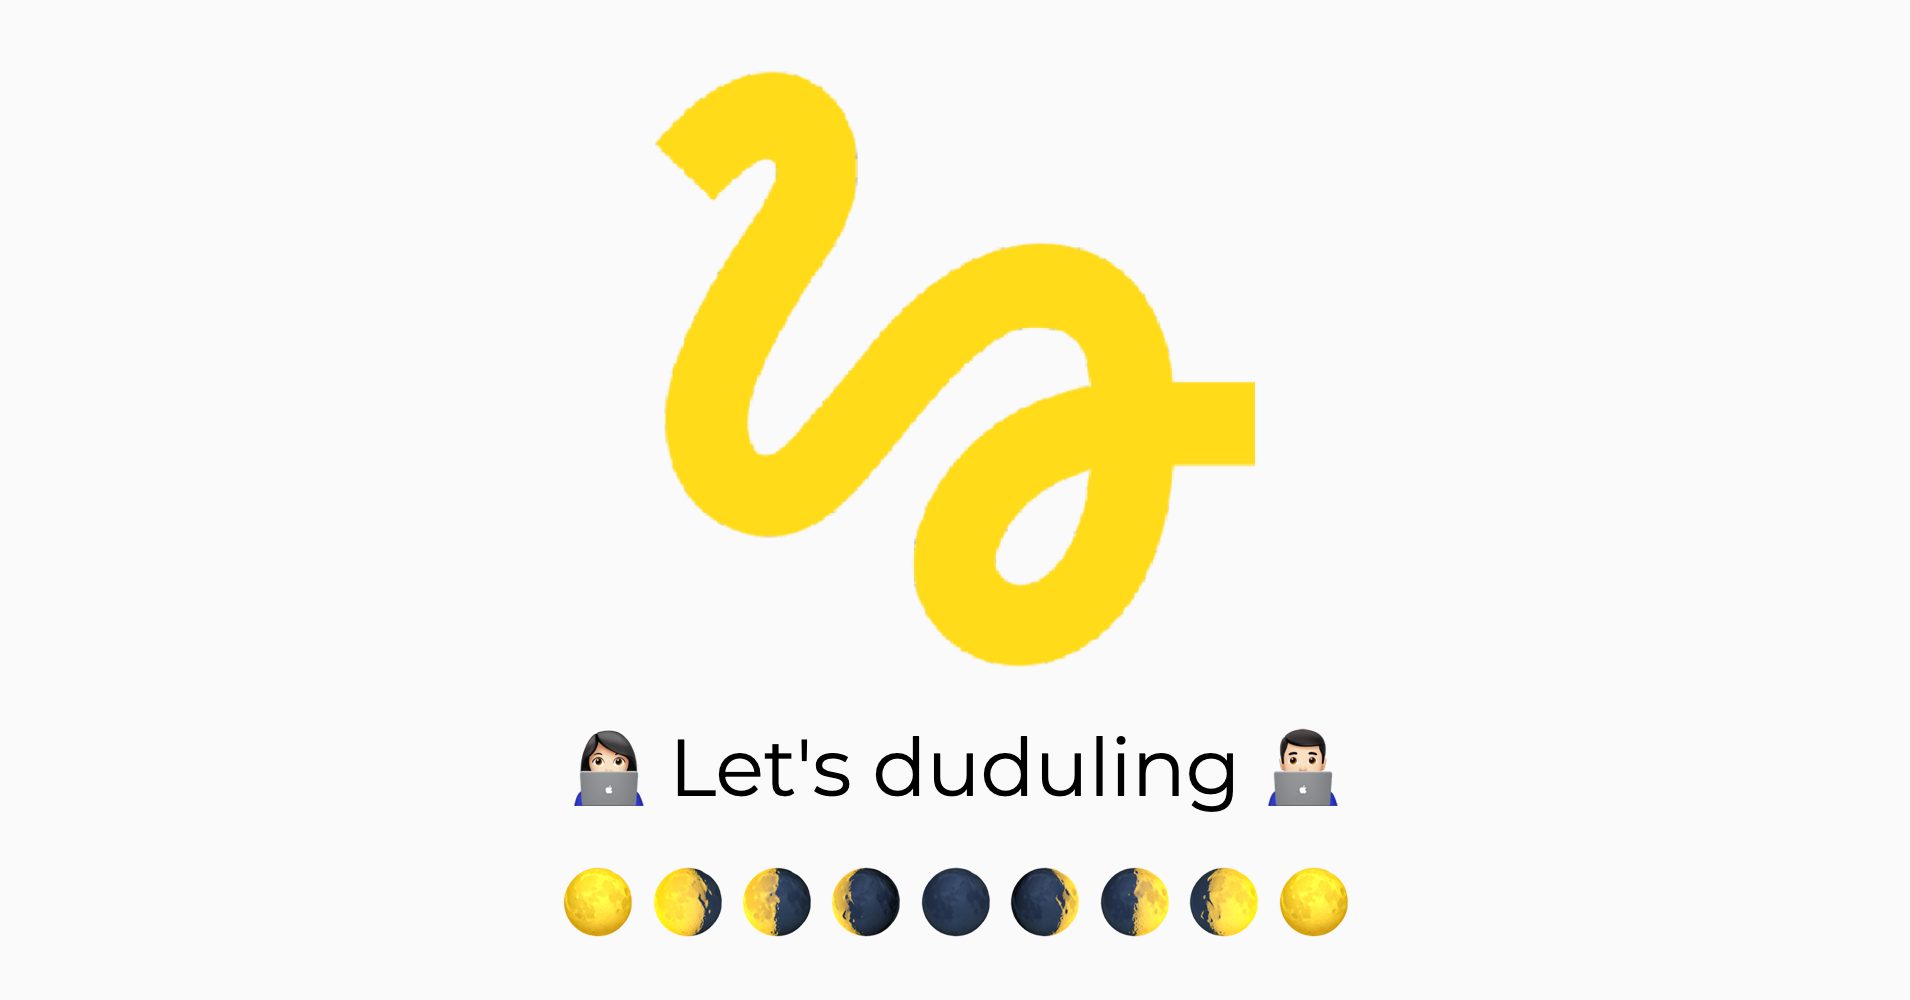
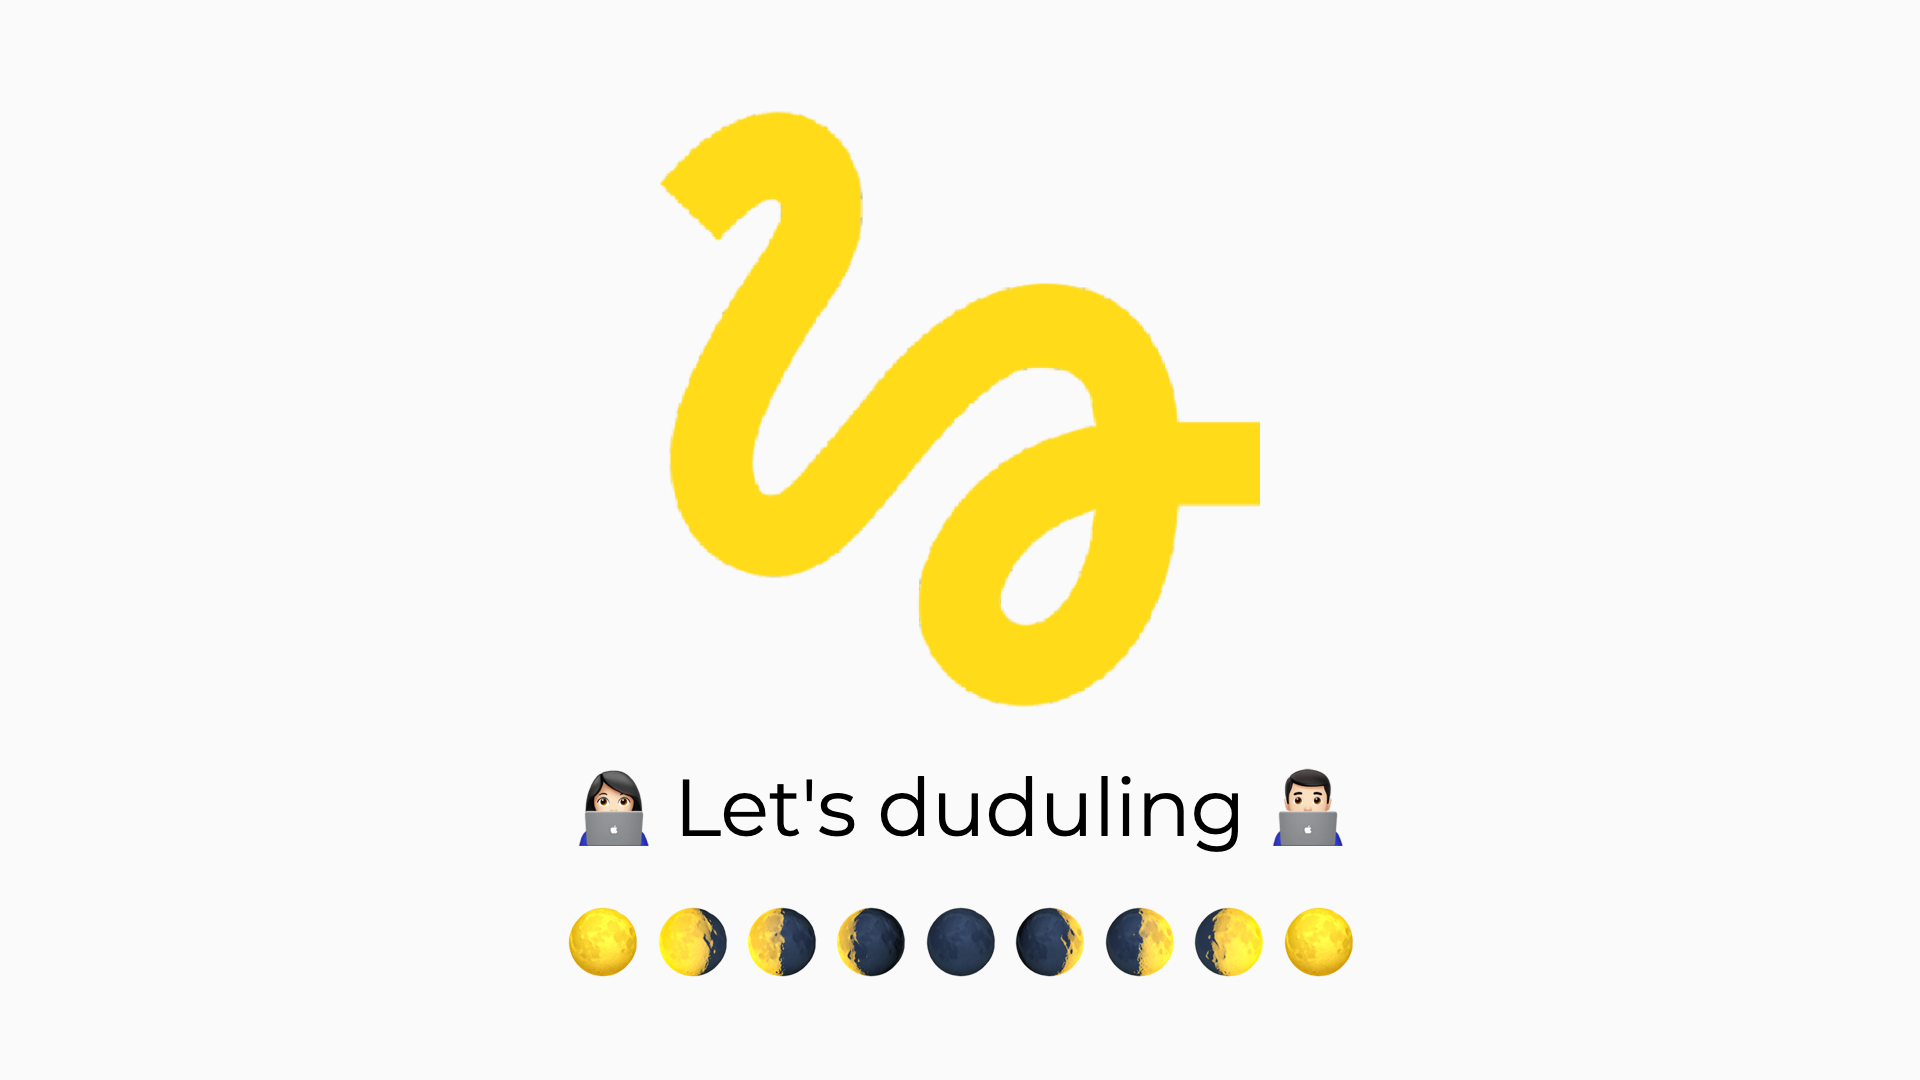
style: Complete initial setting

diff --git a/src/components/Article/Bodytext.js b/src/components/Article/Bodytext.js
@@ -1,19 +1,19 @@
-import React from "react";
-import PropTypes from "prop-types";
-import rehypeReact from "rehype-react";
-import Icons from "../../components/About/WebPresenceIcons";
-import ReImg from "./ReImg";
-import ReTracedSVGGallery from "./ReTracedSVGGallery";
-import { Link } from "gatsby";
+import React from "react"
+import PropTypes from "prop-types"
+import rehypeReact from "rehype-react"
+import Icons from "../../components/About/WebPresenceIcons"
+import ReImg from "./ReImg"
+import ReTracedSVGGallery from "./ReTracedSVGGallery"
+import { Link } from "gatsby"
 
 const renderAst = new rehypeReact({
   createElement: React.createElement,
-  components: { "re-icons": Icons , "re-img": ReImg , "re-link": Link, "re-tracedsvg-gallery": ReTracedSVGGallery }
+  components: { "re-icons": Icons, "re-img": ReImg, "re-link": Link, "re-tracedsvg-gallery": ReTracedSVGGallery }
 }).Compiler
 
 const Bodytext = props => {
-  const { content, theme } = props;
-  const html = props.content.html;
+  const { content, theme } = props
+  const html = props.content.html
 
   return (
     <React.Fragment>
@@ -91,18 +91,20 @@ const Bodytext = props => {
             background: ${theme.color.neutral.gray.c};
             text-shadow: none;
             color: inherit;
-            padding: 0.1em 0.3em 0.2em;
-            border-radius: 0.1em;
+            padding: 0.15em 0.35em 0.2em;
+            border-radius: 0.2em;
+            font-size: 0.8em;
+            font-family: 'IBM Plex Mono', 'Noto Sans KR','sans-serif';
           }
         }
       `}</style>
     </React.Fragment>
-  );
-};
+  )
+}
 
 Bodytext.propTypes = {
   content: PropTypes.object.isRequired,
   theme: PropTypes.object.isRequired
-};
+}
 
-export default Bodytext;
+export default Bodytext

diff --git a/src/layouts/index.js b/src/layouts/index.js
@@ -11,8 +11,6 @@ import 'typeface-open-sans/index.css'
 export const ThemeContext = React.createContext(null)
 export const ScreenWidthContext = React.createContext(0)
 
-
-
 class Layout extends React.Component {
   constructor() {
     super()
@@ -95,14 +93,14 @@ class Layout extends React.Component {
               padding: 0;
             }
             body {
-              font-family: 'Open Sans', 'Arial', 'sans-serif';
+              font-family: 'Noto Sans KR', 'Open Sans', 'sans-serif';
               font-weight: 400;
             }
             h1,
             h2,
             h3 {
               font-weight: 600;
-              font-family: 'Open Sans', 'Arial', 'sans-serif';
+              font-family: 'Noto Sans KR', 'Open Sans', 'sans-serif';
               line-height: 1.1;
               letter-spacing: -0.03em;
               margin: 0;

diff --git a/src/components/About/WebPresenceIcons.js b/src/components/About/WebPresenceIcons.js
@@ -11,7 +11,7 @@ const WebPresenceIcons = () => {
             <div className="icons">
                 <a href={config.authorGithub} target={"_blank"}><FaGithub /></a>
                 {/* <a href={config.authorStackoverflow} target={"_blank"}><FaStackOverflow/></a> */}
-                <a href={config.authorLinkedin} target={"_blank"}><FaLinkedin /></a>
+                {/* <a href={config.authorLinkedin} target={"_blank"}><FaLinkedin /></a> */}
                 {/* <a href={config.authorCodeforces} target={"_blank"}><Codeforces/></a> */}
                 {/* <a href={config.authorYoutube} target={"_blank"}><FaYoutube/></a> */}
                 {/* <a href={config.authorUnsplash} target={"_blank"}><Unsplash/></a> */}

diff --git a/src/html.js b/src/html.js
@@ -24,6 +24,7 @@ export default class HTML extends React.Component {
           <link rel="icon" type="image/png" sizes="16x16" href="/icons/favicon-16x16.png" />
           <link rel="icon" type="image/png" sizes="32x32" href="/icons/favicon-32x32.png" />
           <link rel="icon" type="image/png" sizes="96x96" href="/icons/favicon-96x96.png" />
+          <link href="https://fonts.googleapis.com/css?family=IBM+Plex+Mono|Noto+Sans+KR&display=swap" rel="stylesheet"></link>
         </head>
         <body {...this.props.bodyAttributes}>
           {this.props.preBodyComponents}
